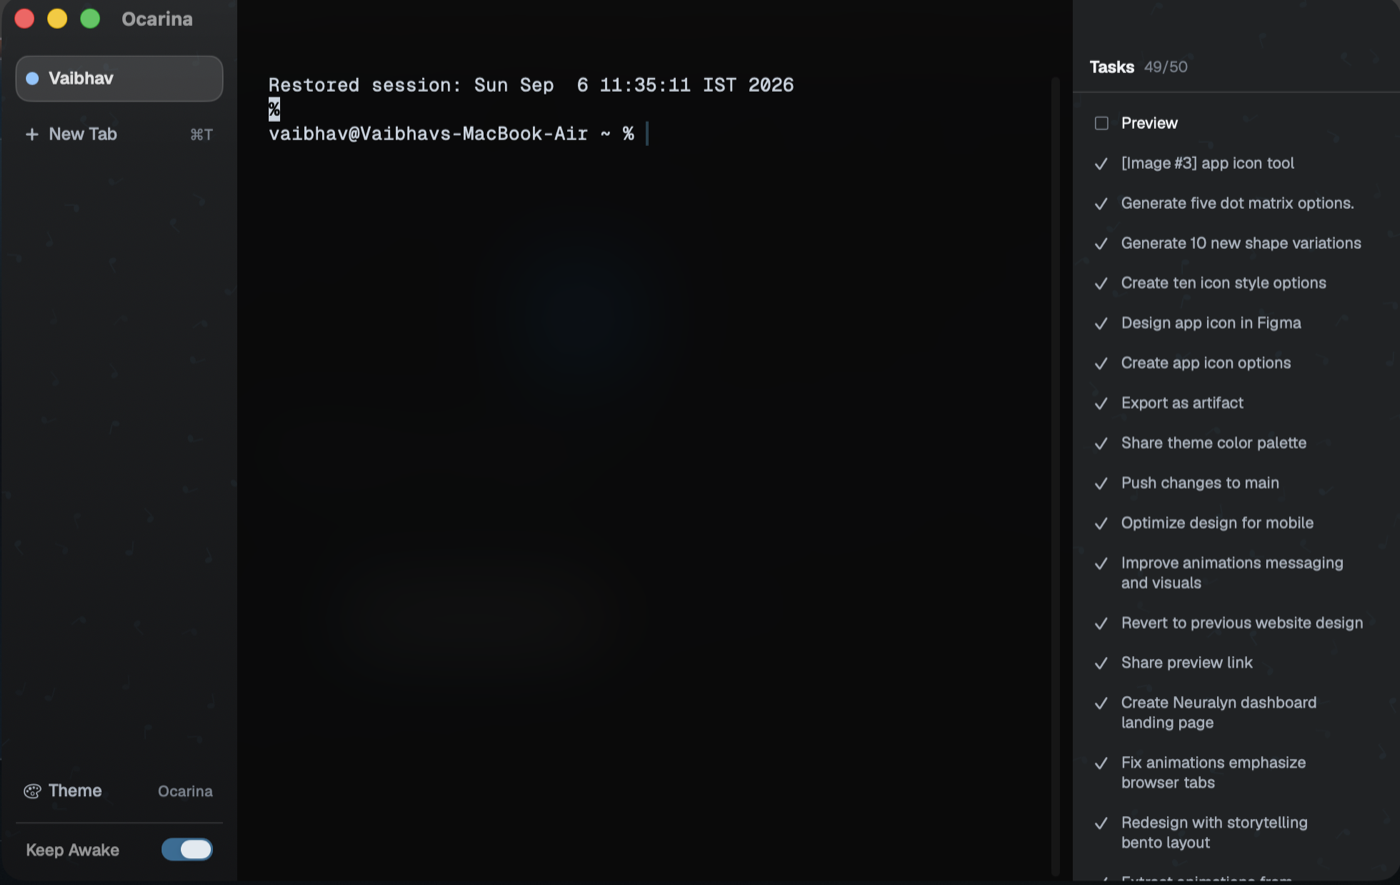
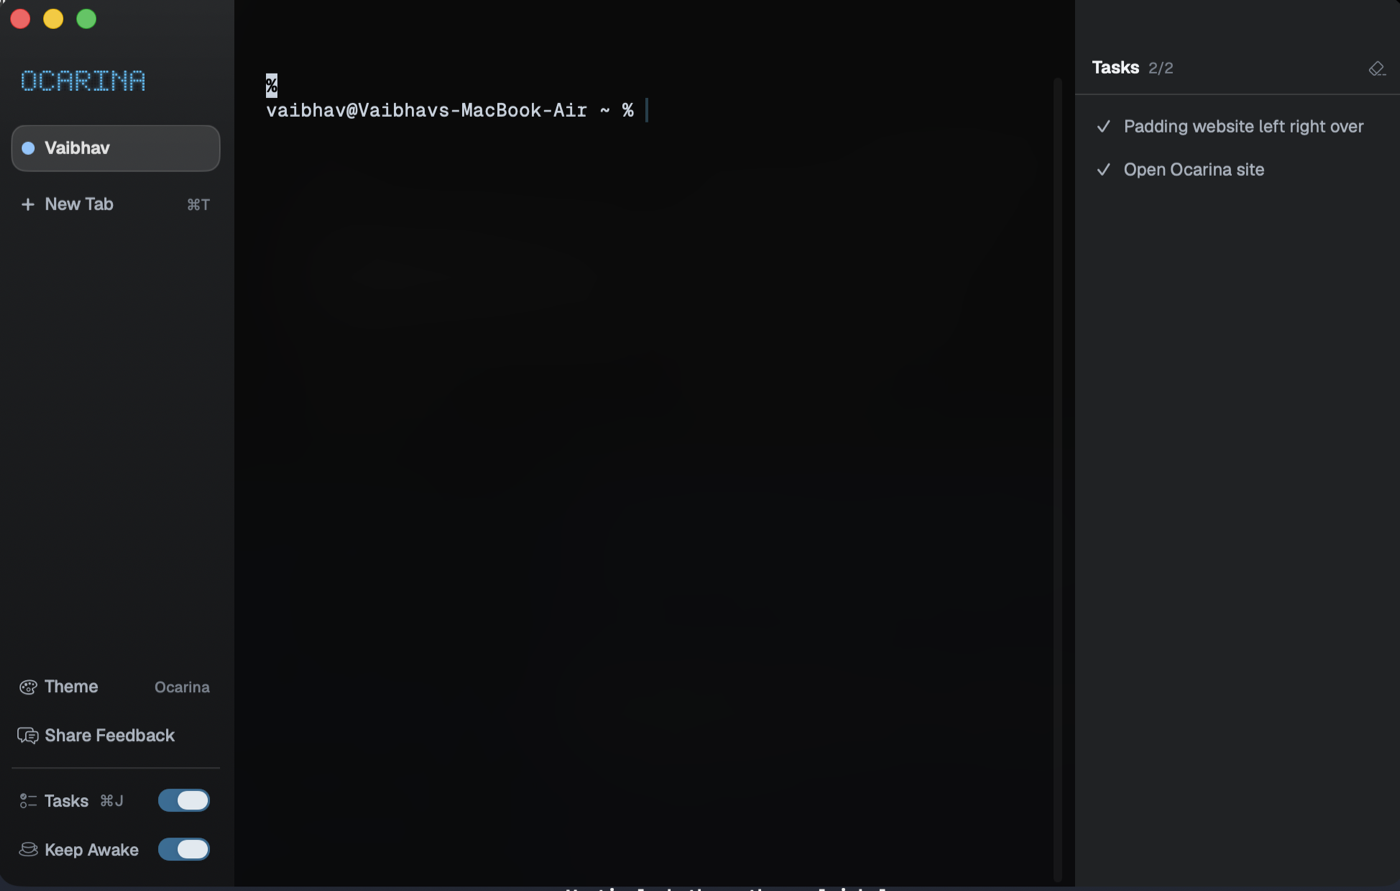
Bring the README back level with the app
Six things it still claimed that were no longer true, or never said at all.

Themes: it promised "an optional background motif" in a format that no
longer has the field. It now says the textures were taken out, and why.

The task panel: it described a permanent column with no way to close it. It
turns off from a switch in the left column, ⌘J is beside it and now in the
shortcut table, and the header carries an eraser that draws a line under the
list without touching the agent's transcript.

Share Feedback was an entire feature the README had never heard of, so it
gets a section: what it does, that it composes rather than sends, and why it
asks for no address.

The sidebar wordmark: the empty state's dot matrix rides at the top of the
column now, with the titlebar's own name hidden to make room.

Package layout: eleven files missing, including the three added this week.

And a note on where resources have to live inside a built .app, because that
one shipped a release that crashed for everybody but me and is invisible on
the machine that builds it.

All three screenshots recaptured — the old ones predate the wordmark, the
aligned footer, the Share Feedback row and the texture removal, so the first
thing anyone saw was an app that no longer exists.

Claude-Session: https://claude.ai/code/session_01RFJ5c7GsJFAZY65CQea7pd

diff --git a/README.md b/README.md
@@ -102,6 +102,19 @@ Three rules follow from where that work happens.
   but open a terminal. The first keystroke cannot happen at launch, and it means
   the session is genuinely in use.
 
+The panel is on by default and turns off from a switch in the left column, with
+⌘J written beside it. It is a column, not a drawer: showing or hiding it resizes
+the terminal once. It was a sliding drawer for a while, and that animated the
+terminal's *width* — a `TIOCSWINSZ` and a SIGWINCH per frame, with the shell
+repainting its prompt through the whole slide.
+
+Starting something new? The header carries an eraser when there is anything to
+erase. It records a line under the list for that project and hides what came
+before it. The agent's transcript is not touched — it belongs to the agent, and
+deleting somebody's prompts out of Claude's history to tidy a panel would be the
+worst kind of helpful. Ask for something new and it appears, being newer than
+the line.
+
 ## It tells you what to type
 
 <img src="docs/images/quick-actions.png" alt="The quick actions drawer: install an agent, and the things agents need">
@@ -140,14 +153,33 @@ visible screen to whichever of `claude`, `gemini` or `codex` is present.
 Dismissing it means "I have read this one", not "stop telling me when things
 break" — the next failure brings it back.
 
+## It asks you what went wrong
+
+A row under Theme opens a sheet. Say what is broken, and it either opens a
+prefilled issue on this repository or copies the same report for whatever
+channel you actually use. Your build and macOS version are appended, which are
+the two facts every report needs and nobody remembers to include.
+
+It composes; it does not send. There is no server behind Ocarina and no key in
+the app, so anything that "just sent" would either be posting to a third party
+you never agreed to or shipping a credential inside a binary anyone can
+download. It also asks for no address: an earlier version opened a `mailto:`,
+which quietly demanded both a configured mail client and the reporter's own
+identity attached to a complaint. Neither is fair to ask of somebody whose whole
+contribution is telling you a button is broken.
+
 ## It looks like something you chose
 
 <img src="docs/images/themes.png" alt="The theme picker, fourteen themes">
 
 Fourteen bundled themes, applied as you pick. Each is a JSON file carrying the
-chrome colours, the terminal bed, a sixteen-colour ANSI palette and an optional
-background motif. Drop your own in `~/.ocarina/themes/` and they appear beside
-the bundled ones.
+chrome colours, the terminal bed and a sixteen-colour ANSI palette. Drop your own
+in `~/.ocarina/themes/` and they appear beside the bundled ones.
+
+Themes used to carry a background motif as well — petals, leaves, embers, rain.
+Read at one row it was texture; read down a column of tabs it was litter behind
+the thing you were trying to scan. It is gone from the renderer and from the
+format, because a field left in the format is a promise to keep drawing it.
 
 The picker is not a sheet. A sheet on macOS is modal and will not dismiss on a
 click outside it, and picking a theme is a thing you do by trying three and then
@@ -200,6 +232,11 @@ a flight has a time and a status; a terminal that does not exist yet has
 neither, so drawing them was decoration dressed up as information. What earns
 its place is the matrix itself.
 
+The same alphabet carries the wordmark at the top of the sidebar, small and lit,
+so the window wears its mark whether or not there is a terminal open. The
+titlebar's own "Ocarina" is hidden to make room for it — otherwise the window
+wore its name twice, ten points apart.
+
 `DotMatrix` carries a 5x7 font and paints **every** cell of the grid, dark when
 it is off. That is the whole character of the thing: the unlit dots stay visible
 behind the words, so the text reads as lamps that happen to be on rather than as
@@ -243,6 +280,7 @@ was named for it. A session with no directory of its own starts at home.
 | ⌘W | Close tab |
 | ⌘K | Quick actions |
 | ⇧⌘P | Command palette |
+| ⌘J | Show or hide the task panel |
 | ⌘V | Paste, through the inspector |
 
 They come from the menu bar in `MainMenu`, not from SwiftUI
@@ -322,6 +360,15 @@ Sources/OcarinaUI/       SwiftUI layer
   EmptyStateView         no tabs open: the departure board
   DotMatrix              5x7 dot-matrix panel, the board is built from it
   OcarinaIcon            the bundled app mark, prepared for the dock
+  FeedbackView           the report sheet, and the issue URL it builds
+  ClearedTasks           the per-project line under the task list
+  PackagedResources      finds the resource bundle inside a built .app
+  Theme / ThemeColor     the colour model a theme file decodes into
+  Recipe                 the quick-actions catalogue
+  ErrorBannerView        what a failed command puts on screen
+  PasteReviewView        the sheet a risky paste stops at
+  TactileClick           the click a switch makes
+  AppIdentity            what this build calls itself
   TabIcon / StatusDot    a symbol and a state for each tab
   SleepGuard             holds the Mac awake while Ocarina is open
   BundledFonts           registers Geist before the first frame
@@ -334,6 +381,24 @@ SwiftTerm is used only as the VT parser and screen grid. Ocarina spawns the pty
 itself, via `forkpty`, because `login_tty` is what makes the pty the child's
 controlling terminal — and without that `tcgetpgrp` reports nothing and the
 naming layer is blind.
+
+### Where the resources have to live
+
+SwiftPM generates a `Bundle.module` accessor for `OcarinaUI` that looks in
+exactly two places: `Bundle.main.bundleURL/Ocarina_OcarinaUI.bundle` — the root
+of the `.app` — and the absolute `.build` path baked in when it compiled.
+
+Neither is usable. The bundle root cannot hold the resources, because `codesign`
+refuses to sign a bundle with anything loose at the top (`unsealed contents
+present in the bundle root`), and a symlink there is refused for the same reason.
+So they are sealed in `Contents/Resources` and `PackagedResources` looks for them
+there, keeping `Bundle.module` as the fallback that `swift run` and the tests use.
+
+This is worth knowing because getting it wrong is invisible on the machine that
+built the app: the second candidate is a real path on that disk, so it loads and
+everything works, while every downloaded copy dies on launch. `make-release.sh`
+fails the build if the bundles are missing from the app, and the only honest way
+to check by hand is with `.build` moved away entirely.
 
 ## The child environment
 
